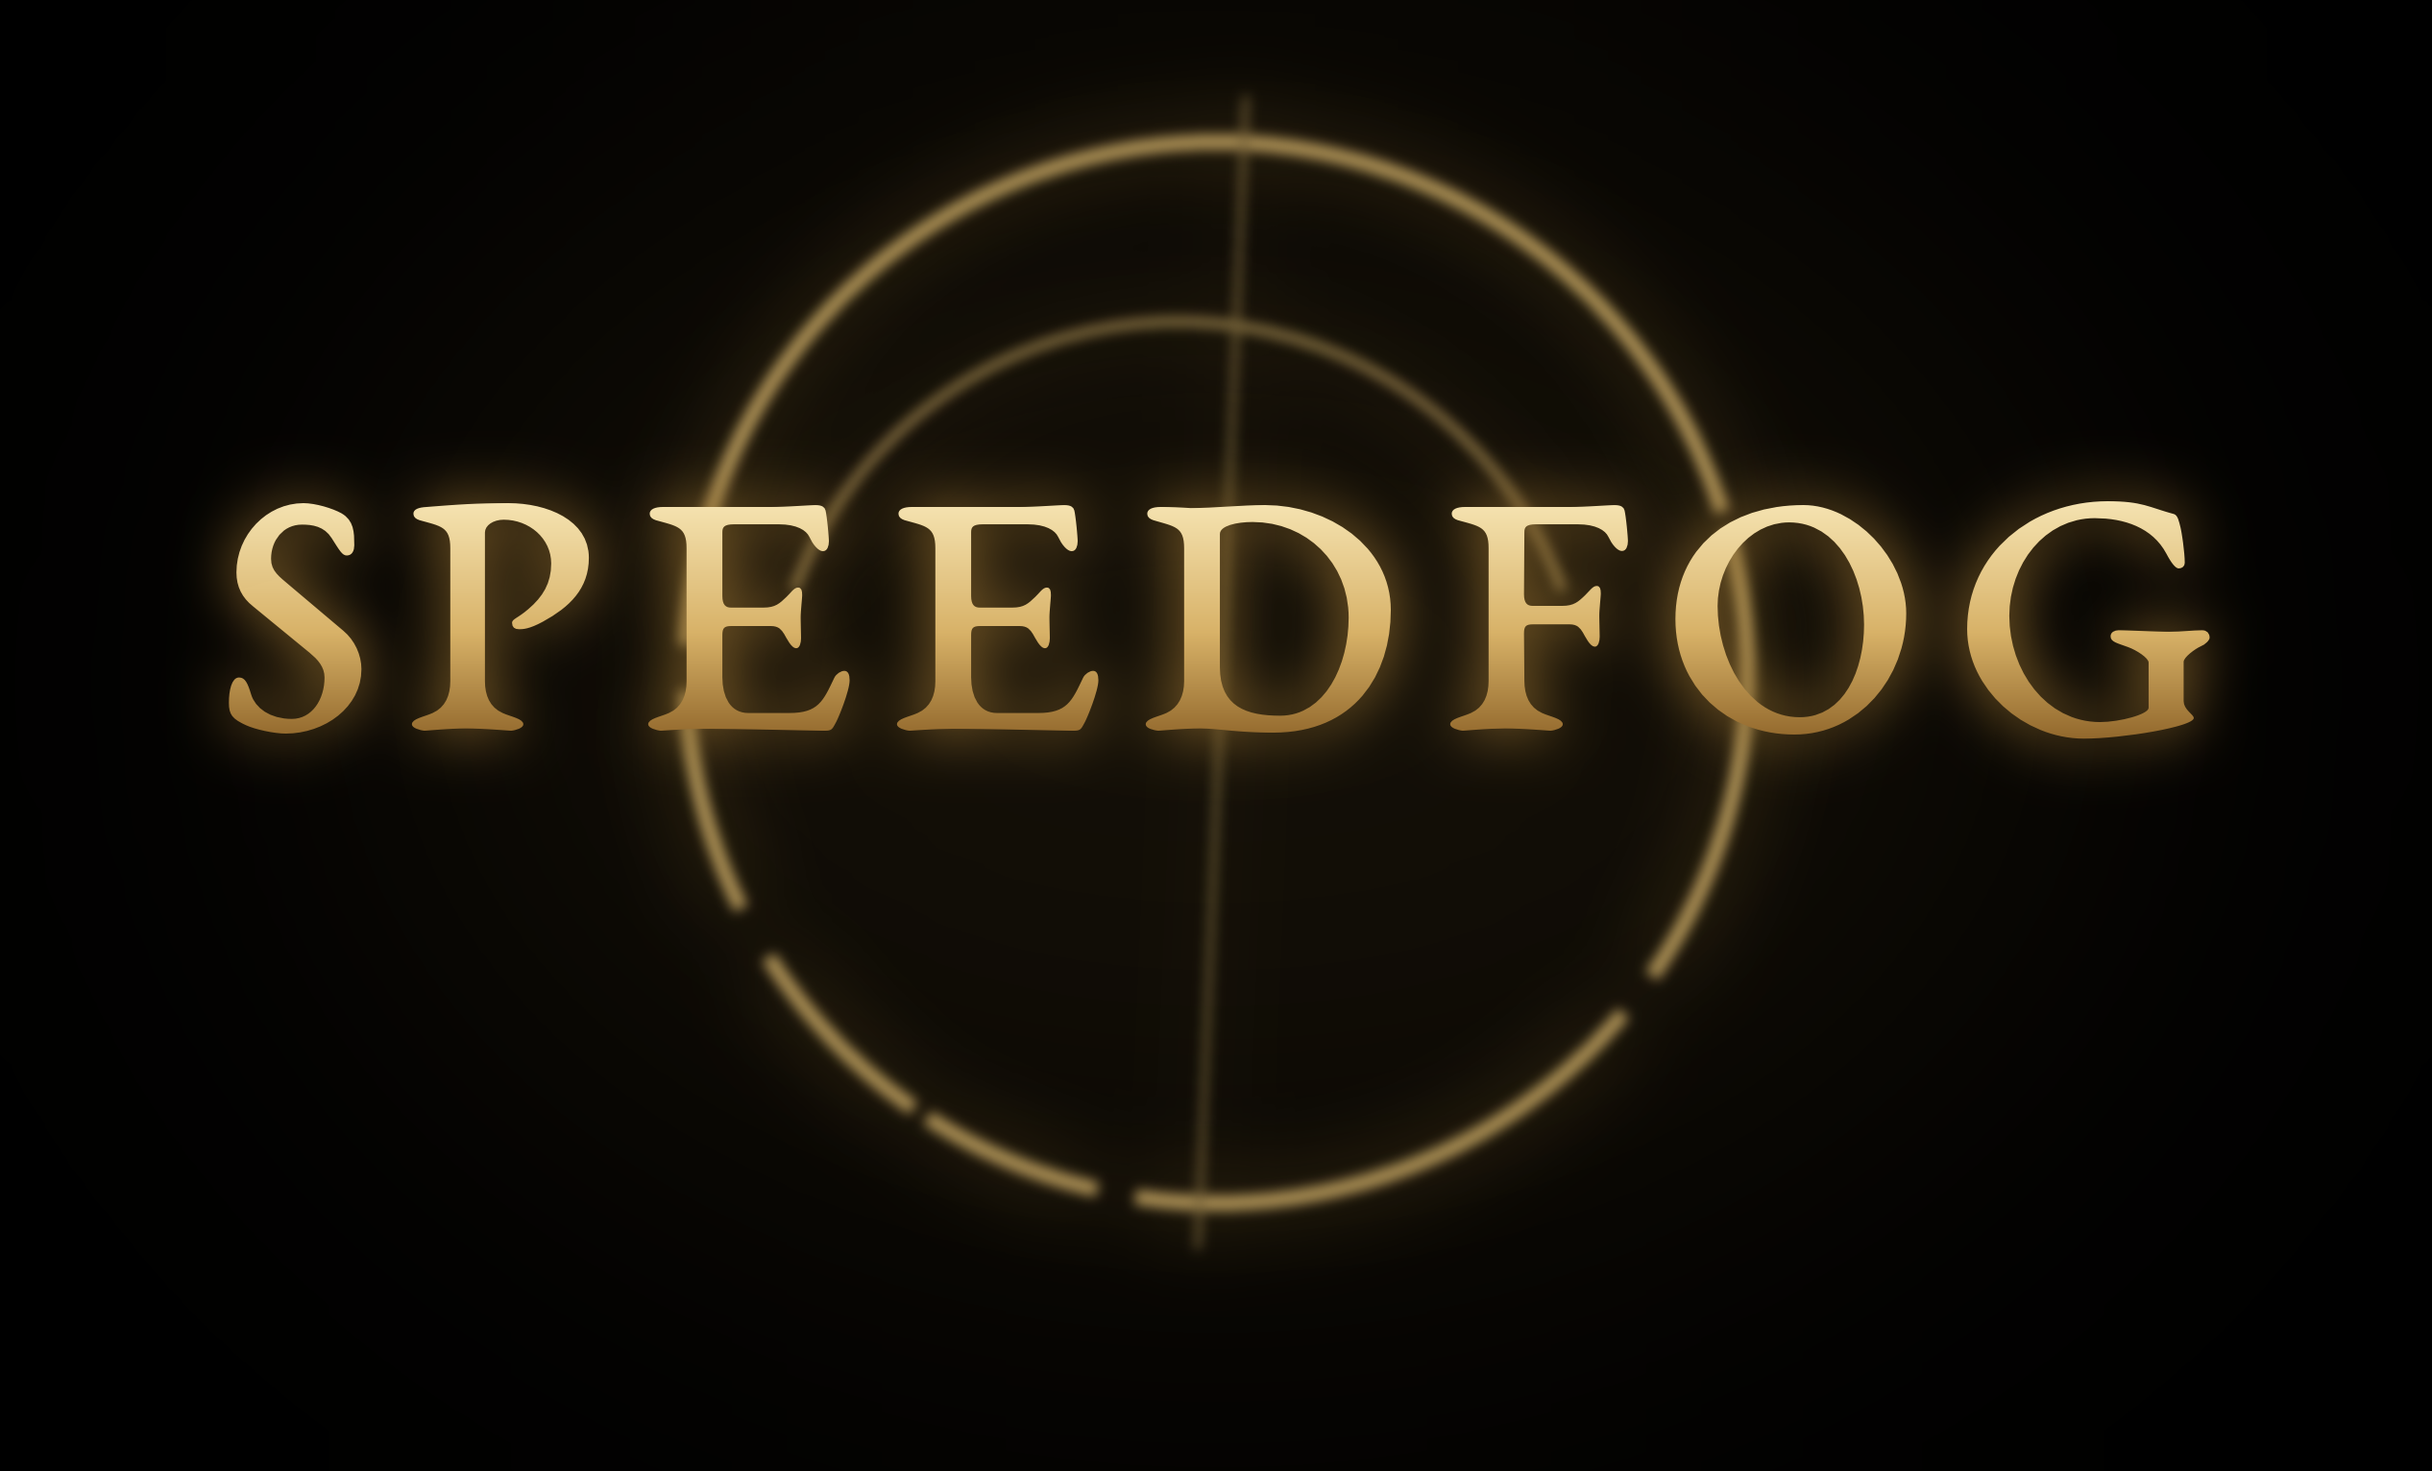
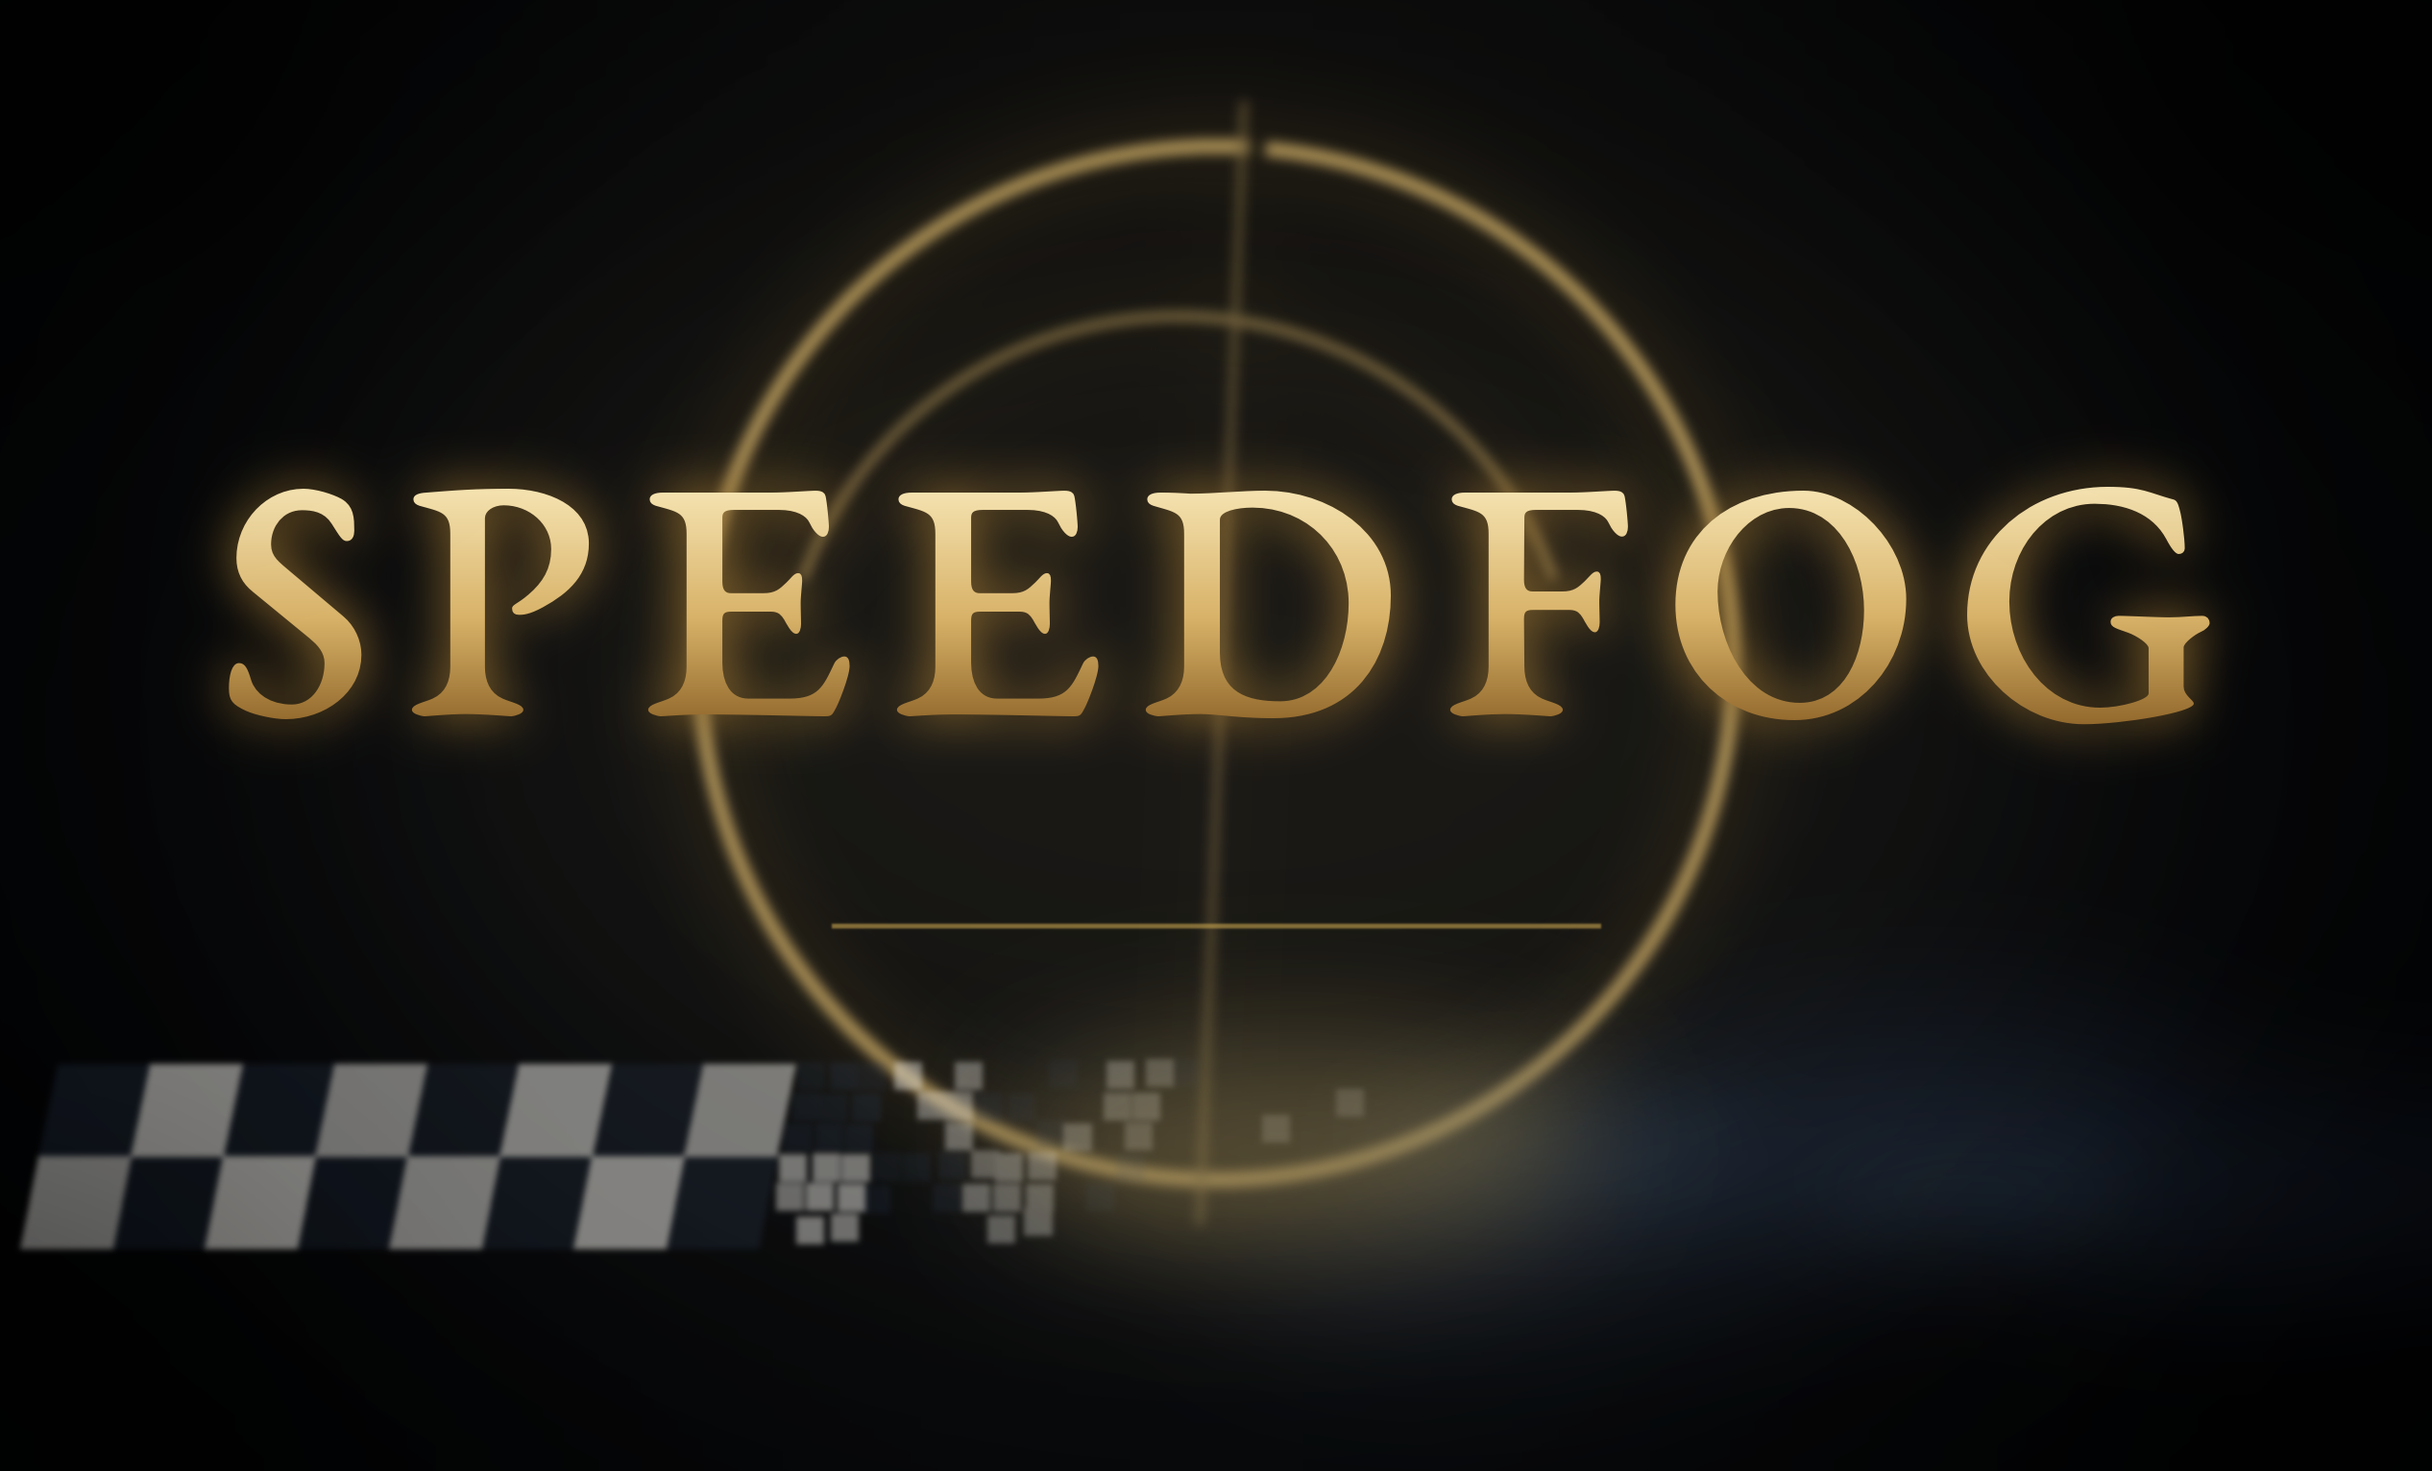
feat(gamepatcher): final title screen artwork from speedfog-racing identity
Replace the working title image with the final artwork: golden SPEEDFOG
wordmark and fractured ring over a checkered finish-line band that
shatters and dissolves into blue-gold fog (identity and palette from
speedfog-racing's og-image.svg). The band stays clear of the zone where
the game draws the "Press any button" prompt.

The artwork is produced by tools/generate_title_screen.py (seeded,
reproduces the committed PNG byte-for-byte on a fixed Pillow + EB
Garamond environment).

BC7 encoding switches from Balanced to BestQuality: the patch runs once
at setup and the artwork is mostly smooth gradients, where lower BC7
quality bands visibly. Measured full GamePatcher run: 2min46 under Wine.

diff --git a/tools/generate_title_screen.py b/tools/generate_title_screen.py
@@ -1,0 +1,260 @@
+#!/usr/bin/env python3
+"""Generate data/title_screen.png (2532x1532), the SpeedFog title artwork.
+
+Identity from speedfog-racing's og-image.svg: a checkered finish-line band
+dissolving into fog, palette #0f1923 / #c8a44e / #e8e6e1 with blue fog wisps.
+Elden Ring anchors: golden EB Garamond wordmark + fractured golden ring.
+
+The output is committed; re-run this script only to change the design, then
+regenerate the overlay (see docs/title-screen.md). Standalone from the project
+venv: requires Pillow and the EB Garamond fonts (Debian: fonts-ebgaramond-extra).
+The random stream is seeded, so the output is reproducible on a fixed
+environment (generated with Pillow 11.1.0 + fonts-ebgaramond-extra on Debian
+13); other Pillow/FreeType/font versions may produce byte-different files.
+"""
+
+import random
+import sys
+from pathlib import Path
+
+from PIL import Image, ImageDraw, ImageFilter, ImageFont
+
+W, H = 2532, 1532
+CX = W // 2
+FONT_PATH = "/usr/share/fonts/opentype/ebgaramond/EBGaramondSC08-Regular.otf"
+
+
+def composite_color(base: Image.Image, color: tuple, mask: Image.Image) -> Image.Image:
+    return Image.composite(Image.new("RGB", (W, H), color), base, mask)
+
+
+def main() -> int:
+    if not Path(FONT_PATH).exists():
+        print(
+            f"Error: {FONT_PATH} not found (Debian: apt install fonts-ebgaramond-extra)",
+            file=sys.stderr,
+        )
+        return 1
+
+    random.seed(11)
+
+    img = Image.new("RGB", (W, H), (0, 0, 0))
+
+    # --- deep blue-grey atmosphere (og-image background tone), subtle ---
+    atmo = Image.new("L", (W, H), 0)
+    ad = ImageDraw.Draw(atmo)
+    ad.ellipse([CX - 1100, 60, CX + 1100, 1450], fill=70)
+    atmo = atmo.filter(ImageFilter.GaussianBlur(300))
+    img = composite_color(img, (28, 42, 63), atmo)  # #1c2a3f
+
+    # --- soft golden glow behind ring/wordmark ---
+    glow = Image.new("L", (W, H), 0)
+    gd = ImageDraw.Draw(glow)
+    gd.ellipse([CX - 850, 140, CX + 850, 1250], fill=54)
+    glow = glow.filter(ImageFilter.GaussianBlur(260))
+    img = composite_color(img, (100, 78, 36), glow)
+
+    # --- fractured golden ring ---
+    ring = Image.new("L", (W, H), 0)
+    rd = ImageDraw.Draw(ring)
+    ring_cy = 690
+    r_out = 545
+    a = 0.0
+    while a < 360.0:
+        seg = random.uniform(20, 75)
+        gap = random.uniform(1.5, 6) if random.random() < 0.45 else 0.0
+        rd.arc(
+            [CX - r_out, ring_cy - r_out, CX + r_out, ring_cy + r_out],
+            start=a,
+            end=a + seg,
+            fill=200,
+            width=15,
+        )
+        a += seg + gap
+    r_in = 420
+    rd.arc(
+        [CX - r_in - 40, ring_cy - r_in + 55, CX + r_in - 40, ring_cy + r_in + 55],
+        start=200,
+        end=340,
+        fill=145,
+        width=9,
+    )
+    rd.line(
+        [CX + 28, ring_cy - r_out - 40, CX - 18, ring_cy + r_out + 40],
+        fill=115,
+        width=6,
+    )
+
+    ring_soft = ring.filter(ImageFilter.GaussianBlur(6))
+    ring_glow = ring.filter(ImageFilter.GaussianBlur(42))
+    img = composite_color(img, (140, 108, 44), ring_glow)
+    img = composite_color(img, (212, 178, 106), ring_soft)
+
+    # --- checkered finish-line band, dissolving into fog toward the right.
+    # The band's two rows end at y=1300, above the zone where the game draws
+    # the "Press any button" prompt, which stays near-black.
+    CELL = 96
+    BAND_ROWS = 2
+    band_y = 1108
+    band = Image.new("L", (W, H), 0)
+    bd = ImageDraw.Draw(band)
+    band_dark = Image.new("L", (W, H), 0)
+    bdd = ImageDraw.Draw(band_dark)
+    SKEW = -0.20  # px of x-shift per px of y: cells lean like a waved flag
+
+    def cell_quad(draw, x0, y0, alpha):
+        sk0 = SKEW * (y0 - band_y)
+        sk1 = SKEW * (y0 + CELL - band_y)
+        draw.polygon(
+            [
+                (x0 + sk0, y0),
+                (x0 + CELL + sk0, y0),
+                (x0 + CELL + sk1, y0 + CELL),
+                (x0 + sk1, y0 + CELL),
+            ],
+            fill=alpha,
+        )
+
+    def sub_quads(draw, x0, y0, t, base_alpha):
+        """Shatter a cell into 3x3 sub-quads: chunks fall out and drift as t grows."""
+        n = 3
+        s = CELL / n
+        cs = s * 0.88  # slight inset so cracks show between chunks
+        for i in range(n):
+            for j in range(n):
+                if random.random() < t * 1.15:
+                    continue
+                alpha = int(base_alpha * (1.0 - t * 0.8) + random.uniform(-10, 10))
+                if alpha <= 0:
+                    continue
+                drift = t * random.uniform(0, 34)
+                sx = x0 + i * s + drift
+                sy = y0 + j * s - drift * random.uniform(0.2, 0.8)
+                sk = SKEW * (sy - band_y)
+                draw.polygon(
+                    [
+                        (sx + sk, sy),
+                        (sx + cs + sk, sy),
+                        (sx + cs + sk, sy + cs),
+                        (sx + sk, sy + cs),
+                    ],
+                    fill=alpha,
+                )
+
+    for row in range(BAND_ROWS):
+        for col in range(26):
+            x0 = 60 + col * CELL
+            y0 = band_y + row * CELL
+            light = (row + col) % 2 == 1
+            # dissolve ramp: whole cells to the left, shattering chunks, then dust
+            t = max(0.0, min(1.0, (x0 - 700) / 800))
+            draw, base = (bd, 135) if light else (bdd, 60)
+            if t < 0.12:
+                cell_quad(
+                    draw, x0, y0, int(base + random.uniform(-base * 0.09, base * 0.09))
+                )
+            else:
+                sub_quads(draw, x0, y0, t, base)
+
+    band = band.filter(ImageFilter.GaussianBlur(3))
+    band_dark = band_dark.filter(ImageFilter.GaussianBlur(3))
+    img = composite_color(img, (48, 66, 92), band_dark)
+    img = composite_color(img, (232, 230, 225), band)  # #e8e6e1
+
+    # --- fog wisps eating the band's right end (og-image blues + a gold breath) ---
+    fog = Image.new("L", (W, H), 0)
+    fd = ImageDraw.Draw(fog)
+    for cx, cy, rx, ry, a_ in [
+        (1300, 1200, 280, 75, 80),
+        (1650, 1240, 320, 85, 95),
+        (2000, 1160, 300, 95, 85),
+        (2320, 1240, 260, 80, 70),
+        (1500, 1330, 240, 55, 65),
+    ]:
+        fd.ellipse([cx - rx, cy - ry, cx + rx, cy + ry], fill=a_)
+    fog = fog.filter(ImageFilter.GaussianBlur(75))
+    img = composite_color(img, (45, 64, 96), fog)  # #2d4060
+
+    fog2 = Image.new("L", (W, H), 0)
+    f2 = ImageDraw.Draw(fog2)
+    for cx, cy, rx, ry, a_ in [
+        (1620, 1190, 200, 45, 55),
+        (2050, 1240, 180, 40, 45),
+    ]:
+        f2.ellipse([cx - rx, cy - ry, cx + rx, cy + ry], fill=a_)
+    fog2 = fog2.filter(ImageFilter.GaussianBlur(50))
+    img = composite_color(img, (90, 122, 154), fog2)  # #5a7a9a
+
+    foggold = Image.new("L", (W, H), 0)
+    fg = ImageDraw.Draw(foggold)
+    fg.ellipse([1050, 1080, 1650, 1300], fill=80)
+    foggold = foggold.filter(ImageFilter.GaussianBlur(65))
+    img = composite_color(img, (200, 164, 78), foggold)  # #c8a44e
+
+    # --- SPEEDFOG wordmark ---
+    TEXT = "SPEEDFOG"
+    TRACKING = 36
+
+    def text_layer(size: int) -> Image.Image:
+        font = ImageFont.truetype(FONT_PATH, size)
+        widths = [font.getbbox(ch)[2] - font.getbbox(ch)[0] for ch in TEXT]
+        total = sum(widths) + TRACKING * (len(TEXT) - 1)
+        layer = Image.new("L", (W, H), 0)
+        ld = ImageDraw.Draw(layer)
+        x = CX - total // 2
+        baseline_y = 745
+        for ch, w in zip(TEXT, widths, strict=True):
+            bbox = font.getbbox(ch)
+            ld.text((x - bbox[0], baseline_y), ch, font=font, anchor="ls", fill=255)
+            x += w + TRACKING
+        return layer
+
+    size = 420
+    mask = text_layer(size)
+    bbox = mask.getbbox()
+    size = int(size * 2050 / (bbox[2] - bbox[0]))
+    mask = text_layer(size)
+
+    grad = Image.new("RGB", (W, H))
+    top, mid, bot = (246, 228, 178), (216, 178, 104), (146, 104, 44)
+    gb = mask.getbbox()
+    gdraw = ImageDraw.Draw(grad)
+    for y in range(H):
+        if gb[1] <= y <= gb[3]:
+            t = (y - gb[1]) / max(1, gb[3] - gb[1])
+            if t < 0.55:
+                u = t / 0.55
+                c = tuple(int(p + (q - p) * u) for p, q in zip(top, mid, strict=True))
+            else:
+                u = (t - 0.55) / 0.45
+                c = tuple(int(p + (q - p) * u) for p, q in zip(mid, bot, strict=True))
+        else:
+            c = mid
+        gdraw.line([(0, y), (W, y)], fill=c)
+
+    text_glow = mask.filter(ImageFilter.GaussianBlur(26))
+    img = composite_color(img, (150, 112, 48), text_glow)
+    img = Image.composite(grad, img, mask)
+
+    # --- thin gold accent line under the wordmark (og-image accent) ---
+    accent = Image.new("L", (W, H), 0)
+    acd = ImageDraw.Draw(accent)
+    acd.rectangle([CX - 400, 962, CX + 400, 966], fill=155)
+    accent = accent.filter(ImageFilter.GaussianBlur(1))
+    img = composite_color(img, (200, 164, 78), accent)  # #c8a44e
+
+    # --- vignette to pure black (sprite must blend into the black title screen) ---
+    vign = Image.new("L", (W, H), 0)
+    vd = ImageDraw.Draw(vign)
+    vd.ellipse([-330, -240, W + 330, H + 240], fill=255)
+    vign = vign.filter(ImageFilter.GaussianBlur(230))
+    img = Image.composite(img, Image.new("RGB", (W, H), (0, 0, 0)), vign)
+
+    out = Path(__file__).resolve().parent.parent / "data" / "title_screen.png"
+    img.save(out, optimize=True)
+    print(f"saved {img.size} -> {out} ({out.stat().st_size} bytes)")
+    return 0
+
+
+if __name__ == "__main__":
+    sys.exit(main())

diff --git a/writer/GamePatcher/TitleScreenPatcher.cs b/writer/GamePatcher/TitleScreenPatcher.cs
@@ -119,7 +119,9 @@ public static class TitleScreenPatcher
     {
         var encoder = new BcEncoder(CompressionFormat.Bc7);
         encoder.OutputOptions.GenerateMipMaps = false;
-        encoder.OutputOptions.Quality = CompressionQuality.Balanced;
+        // one-shot at setup, so favor quality over encode time (gradients band
+        // more visibly at lower BC7 quality)
+        encoder.OutputOptions.Quality = CompressionQuality.BestQuality;
         // mip 0 is the only level generated
         return encoder.EncodeToRawBytes(image)[0];
     }

diff --git a/docs/title-screen.md b/docs/title-screen.md
@@ -25,11 +25,11 @@ Related but distinct files:
 
 ## How the patch works
 
-Committed artwork: `data/title_screen.png`, which must be exactly **2532x1532**.
+Committed artwork: `data/title_screen.png`, which must be exactly **2532x1532**. It is generated by `tools/generate_title_screen.py` (procedural, seeded; reproducible on a fixed Pillow + fonts-ebgaramond-extra environment, other Pillow/FreeType/font versions may produce byte-different output; standalone from the project venv): edit that script and re-run it to change the design.
 
 `TitleScreenPatcher` (in GamePatcher, using SoulsFormatsNEXT for TPF/DCX) runs at setup:
 
-1. Load `data/title_screen.png` and BC7-encode it with BCnEncoder.NET (Balanced quality, no mipmaps).
+1. Load `data/title_screen.png` and BC7-encode it with BCnEncoder.NET (BestQuality, no mipmaps; the patch runs once at setup, and lower BC7 quality bands visibly on the artwork's smooth gradients).
 2. For each of `menu/hi/` and `menu/low/`: read `01_common.tpf.dcx` from the game dir, locate `SB_Title_01`, validate the DDS (DX10 BC7, 4096x2048, <=1 mip; skip with a warning on mismatch, e.g. after a game update changes the atlas).
 3. Splice the encoded blocks into the atlas (`DdsAtlas.SpliceBlocks`) and write the TPF to `data/overlay/menu/{hi,low}/01_common.tpf.dcx`, preserving the original DCX compression.
 

diff --git a/CLAUDE.md b/CLAUDE.md
@@ -152,6 +152,7 @@ speedfog/
 │   ├── bootstrap.py             # Project bootstrap (extract deps, build, generate data)
 │   ├── generate_clusters.py # Generate clusters.json from fog.txt
 │   ├── port_boss_arena_tags.py  # Port BAR data → data/boss_arena_tags.json
+│   ├── generate_title_screen.py  # Generate data/title_screen.png (title artwork)
 │   ├── extract_fog_data.py  # Extract fog gate metadata
 │   ├── dump_emevd_warps/    # EMEVD analysis tool (dump warps, search flags, trace inits)
 │   └── game_inspect/        # Game data inspection tool (SFX, MSB entities, EMEVD, asset comparison)
